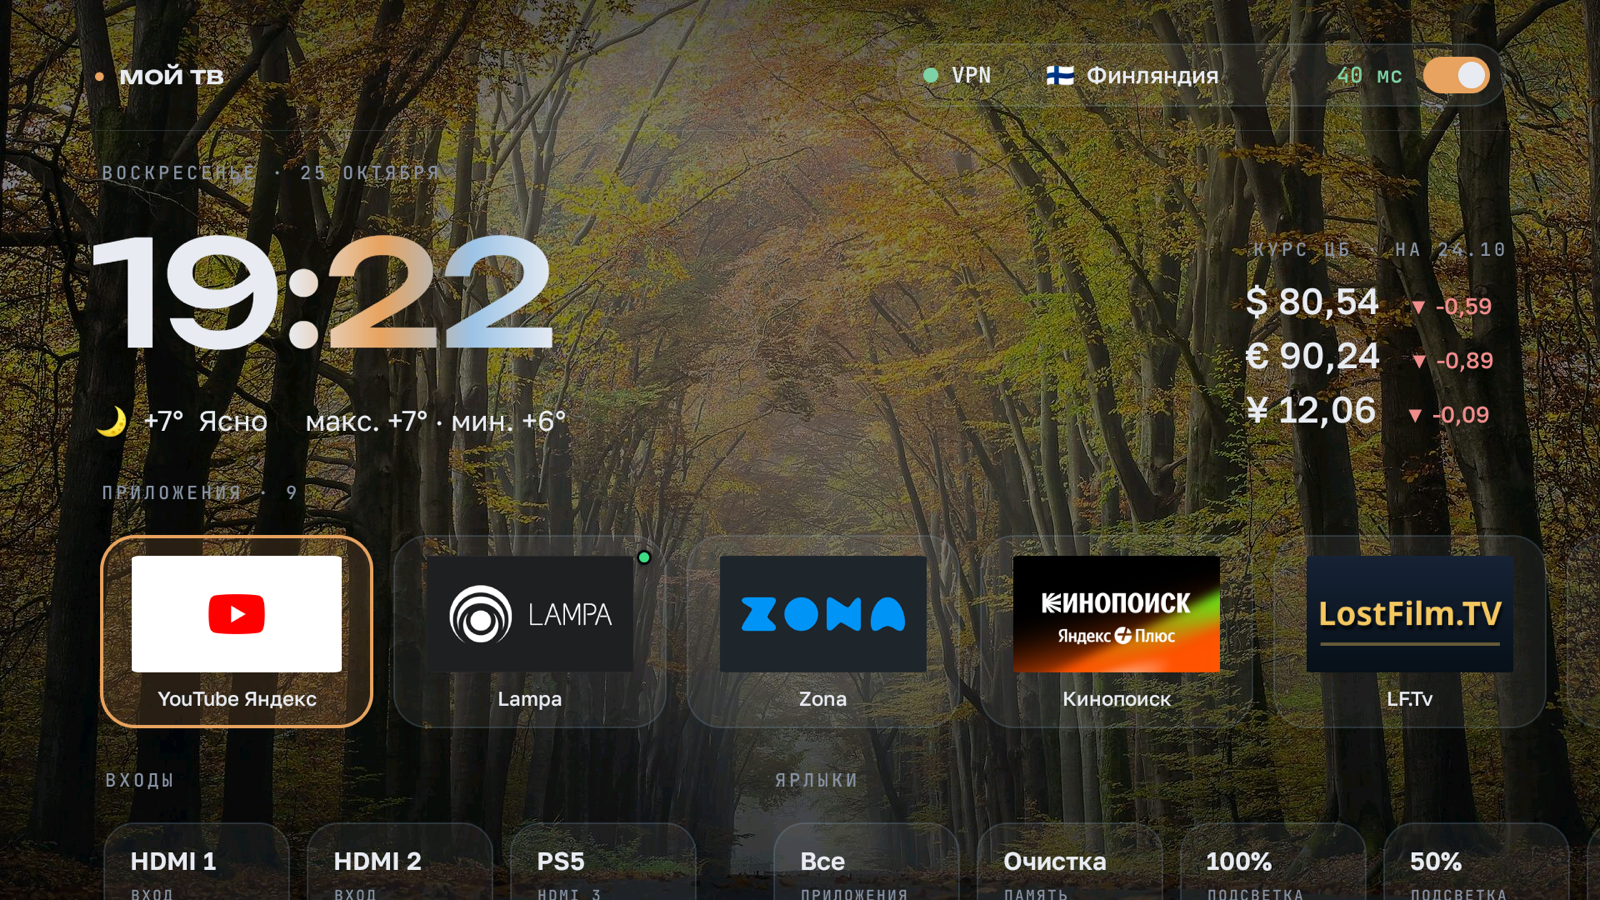
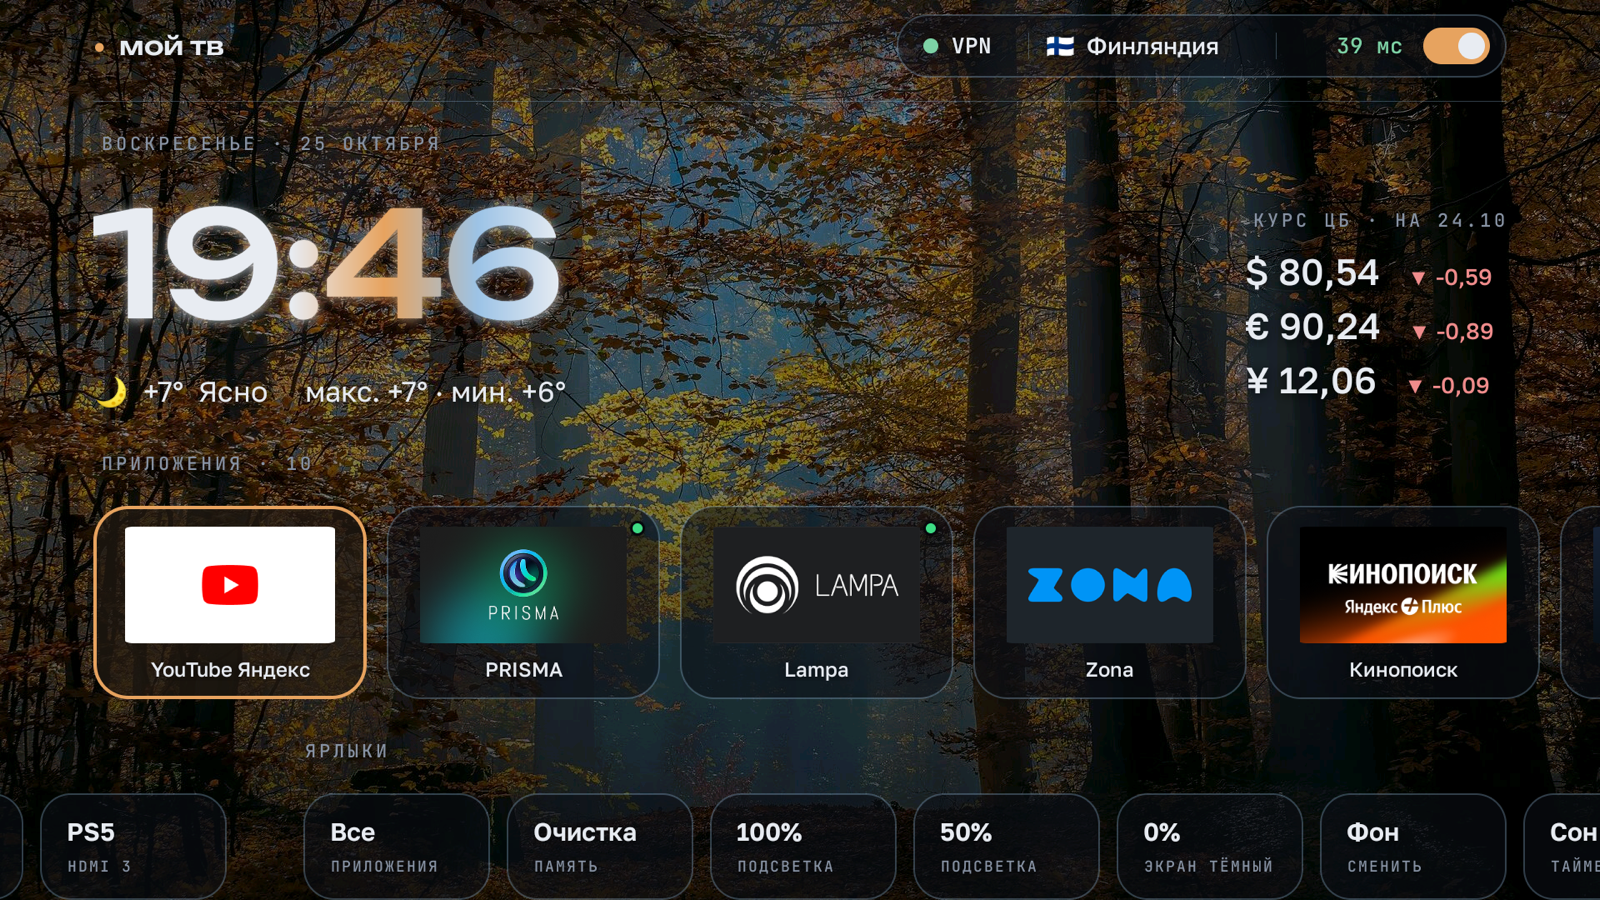
Мой ТВ 1.1
Тёмная подложка у плиток и меню, приглушённый фон, тень у текста. Экран гаснет на время установки. Выбор города для погоды

Claude-Session: https://claude.ai/code/session_01Ac9SnE3AarfteBkUj22V3i

diff --git a/launcher/src/ru/mikulinskiy/tvhome/Ui.java b/launcher/src/ru/mikulinskiy/tvhome/Ui.java
@@ -27,9 +27,9 @@ final class Ui {
     static final int TEXT_DIM = 0xFF8792A3;
     static final int ACCENT = 0xFFE7A35F;   // оранжевый
     static final int ICE = 0xFF9CC3E6;      // ледяной голубой
-    static final int HAIR = 0x2E9CC3E6;     // тонкая рамка
-    static final int TILE = 0x0FFFFFFF;
-    static final int TILE_FOCUS = 0x24E7A35F;
+    static final int HAIR = 0x4D9CC3E6;     // тонкая рамка
+    static final int TILE = 0x8C0B0F16;       // тёмная подложка 55 %: фото видно, текст читается
+    static final int TILE_FOCUS = 0xB8231A12; // в фокусе темнее (72 %) и теплее
     static final int UP = 0xFF7ED3A6;
     static final int DOWN = 0xFFF08C8C;
 
@@ -69,6 +69,8 @@ final class Ui {
         t.setTextColor(color);
         t.setIncludeFontPadding(false);
         t.setTypeface(font(c, font, weight));
+        // мягкая тень: текст читается на светлых фотографиях
+        t.setShadowLayer(dp(c, 5), 0, dp(c, 1), 0xB3000000);
         return t;
     }
 

diff --git a/launcher/src/ru/mikulinskiy/tvhome/Backdrop.java b/launcher/src/ru/mikulinskiy/tvhome/Backdrop.java
@@ -166,9 +166,14 @@ final class Backdrop {
                 BitmapFactory.Options o = new BitmapFactory.Options();
                 o.inPreferredConfig = Bitmap.Config.RGB_565;
                 InputStream in = c.getAssets().open("bg/" + files.get(v));
+                o.inMutable = true;
                 Bitmap b = BitmapFactory.decodeStream(in, null, o);
                 in.close();
-                if (b != null) return b;
+                if (b != null) {
+                    // приглушаем фото на 28 %, чтобы часы, курсы и подписи не терялись
+                    new Canvas(b).drawColor(0x47000000);
+                    return b;
+                }
             } catch (Exception ignored) { }
         }
         Bitmap b = Bitmap.createBitmap(16, 9, Bitmap.Config.RGB_565);

diff --git a/launcher/src/ru/mikulinskiy/tvhome/MainActivity.java b/launcher/src/ru/mikulinskiy/tvhome/MainActivity.java
@@ -376,7 +376,7 @@ public class MainActivity extends Activity {
         card.setPadding(Ui.dp(c, 26), Ui.dp(c, 18), Ui.dp(c, 26), Ui.dp(c, 18));
         LinearLayout now = new LinearLayout(c);
         now.setOrientation(LinearLayout.VERTICAL);
-        wCity = Ui.label(c, City.chosen(c) ? City.name(c) : City.name(c) + " · ОК — выбрать город");
+        wCity = Ui.label(c, City.chosen(c) ? City.name(c) : City.name(c) + " · ОК: город");
         now.addView(wCity);
         wTemp = Ui.text(c, "…", 36, Ui.TEXT, "unbounded", 500);
         wDesc = Ui.text(c, "", 15, Ui.TEXT, "golos", 400);
